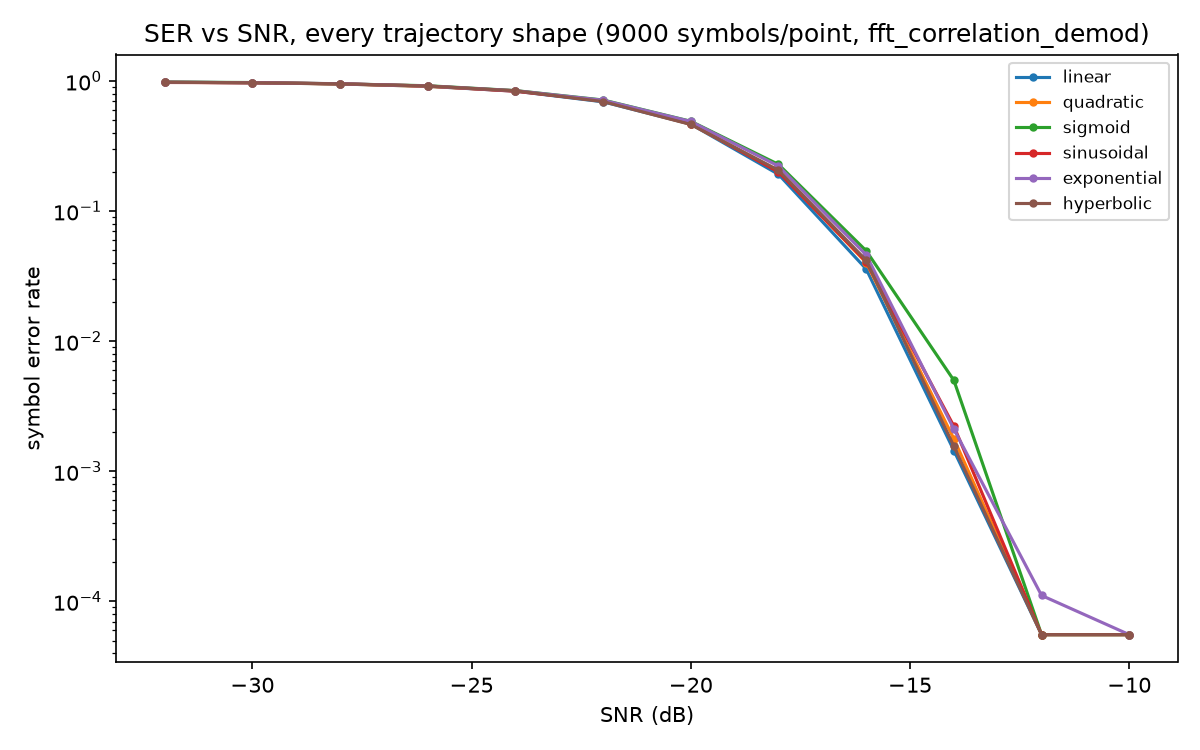
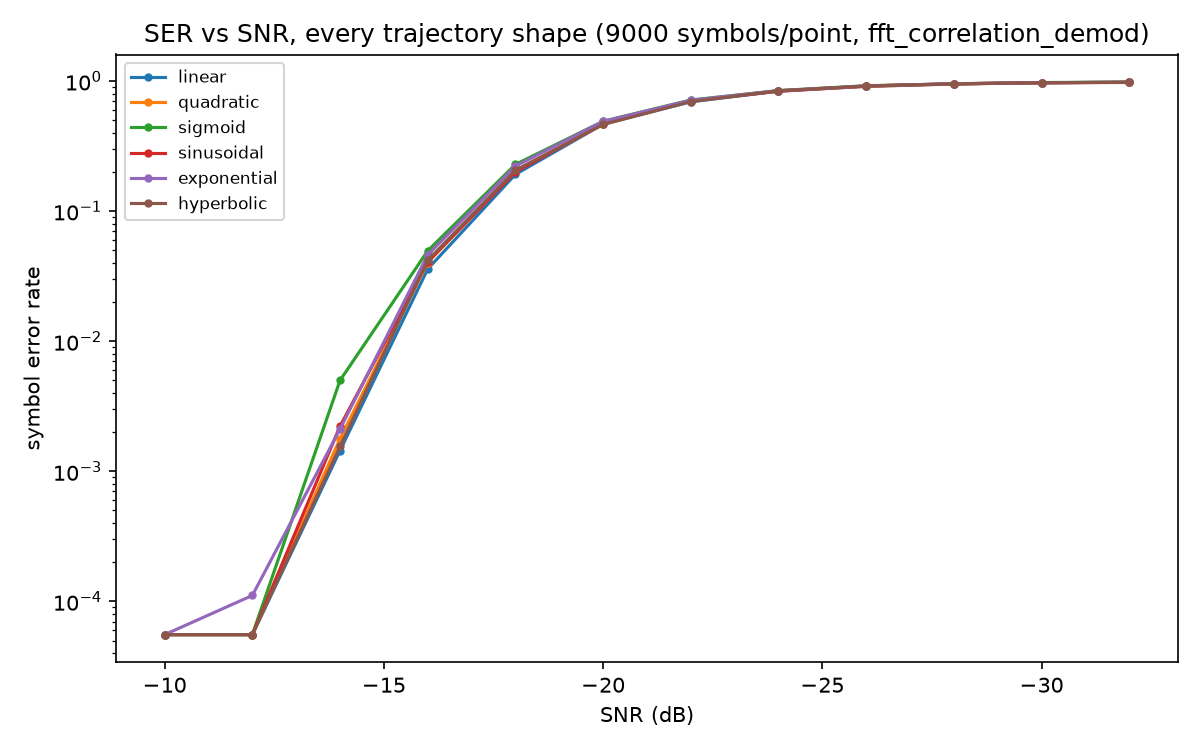
Reverse SNR axis on the all-shapes plot to read as degrading over time
Per request: 14_ser_vs_snr_all_shapes.png now runs -10 dB (best) on
the left down to -32 dB (worst) on the right, via ax.invert_xaxis(),
so it reads as a channel that starts clean and degrades over time
rather than the usual worst-to-best waterfall convention. Note this
intentionally diverges from 03_ser_vs_snr.png and
11_hfm_vs_quadratic_ser.png, which still use ascending SNR.

Claude-Session: https://claude.ai/code/session_01JYjBKKycGVqv95onyZBz3b

diff --git a/examples/run_experiments.py b/examples/run_experiments.py
@@ -436,6 +436,7 @@ def plot_ser_vs_snr_all_shapes():
         ax.plot(snr_range, np.maximum(np.mean(sers, axis=0), floor), marker="o", ms=3, label=traj)
     ax.set(xlabel="SNR (dB)", ylabel="symbol error rate", yscale="log",
            title=f"SER vs SNR, every trajectory shape ({len(seeds)*n_symbols} symbols/point, fft_correlation_demod)")
+    ax.invert_xaxis()  # read left-to-right as a channel degrading over time: good SNR first, worsening after
     ax.legend(fontsize=8)
     fig.tight_layout()
     fig.savefig(os.path.join(OUT_DIR, "14_ser_vs_snr_all_shapes.png"), dpi=150)

diff --git a/NARRATIVE.md b/NARRATIVE.md
@@ -305,7 +305,11 @@ plain noise tolerance, decoded the same way for everyone?
 
 ![Symbol error rate vs. SNR for every trajectory shape, all decoded with fft_correlation_demod](pictures/14_ser_vs_snr_all_shapes.png)
 
-Barely. Every shape's waterfall curve sits almost on top of the others —
+(The x-axis runs from -10 dB down to -32 dB, left to right — read it as a
+channel that starts out clean and degrades over time, rather than the
+usual "worst to best" waterfall convention.)
+
+Barely. Every shape's curve sits almost on top of the others —
 `sigmoid` trails the rest by a small margin near the knee of the curve, but
 there's no shape here that's dramatically more or less noise-tolerant than
 `linear` once the decoder itself isn't the bottleneck. So curving the
